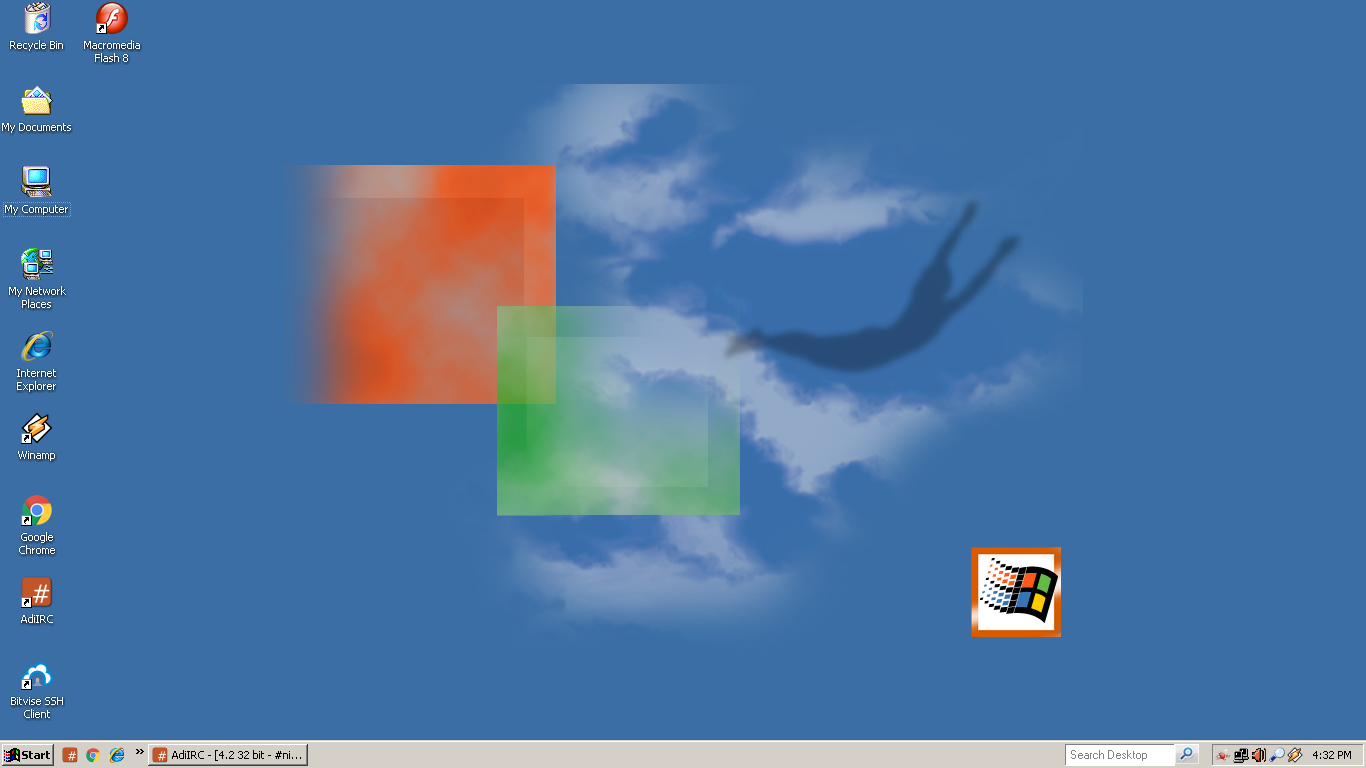
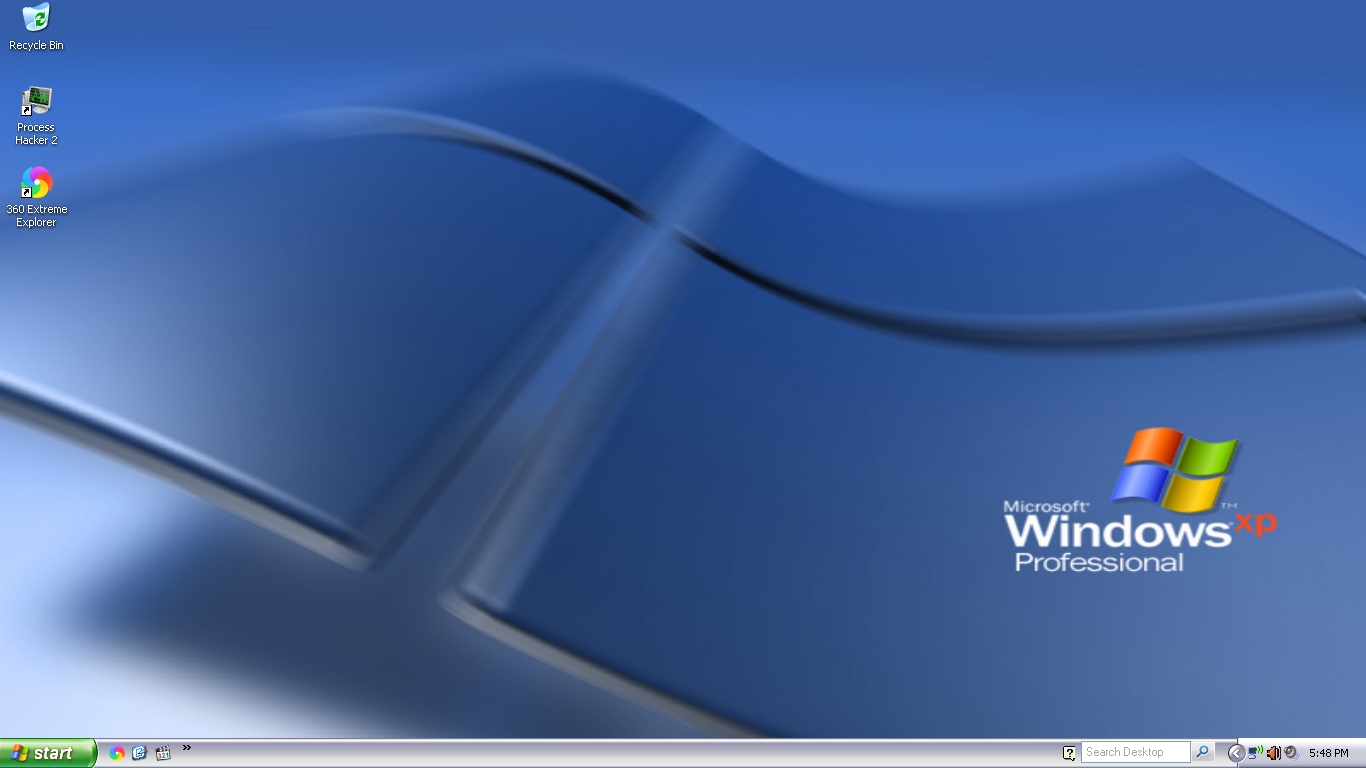
final touches

diff --git a/tmpl/about.html b/tmpl/about.html
@@ -12,14 +12,17 @@
 {%- block content -%}
 <img src=/static/title-art/about.gif alt="About me"><br><br>
 
-<table class=highmedtable>
+<table class=lowlargetable>
 
 	<tr>
 		<td>
 			<p>The usual essay</p>
 		</td>
 		<td>
-			<p>I am Anna/HIDEN. You might also (formerly) know me as HIDEN64 or epictaco/EpicTaco404. I'm a 15 year old, pansexual, furry, transgender woman that lives in the hell-hole that is the south-central USA. I'm a libertarian-socialist. I have diagnosed GAD and probably Tourettes; and I also likely have ADHD, OCD, and Autism.</p>
+			<p>I am Anna/HIDEN, the usual transfem, lib-soc, furry that also happens to be a massive computers + history + metal nerd. I live in the south-central US (I know, it sucks), and I'm 15.</p>
+			<p>I'm also diagnosed with GAD (and Toruettes as well I think), and I likely also have ADHD, Autism, and OCD.</p>
+			<p>As a side note, if you (used to) know someone named epictaco/EpicTaco404/some variant of that... well... that's me!</p>
+			<p>I'm taken as well, so don't be weird.</p>
 		</td>
 	</tr>
 	
@@ -28,7 +31,7 @@
 			<p>Interests</p>
 		</td>
 		<td>
-			<p>I'm interested in technology, rock/metal music, video and audio production, humor, data archival, retro/vintage stuff, and video games.</p>
+			<p>I'm interested in technology, rock/metal music, history (including alternate history), video and audio production, humor, data archival, retro/vintage stuff, and video games.</p>
 		</td>
 	</tr>
 	
@@ -63,4 +66,5 @@
 
 </table>
 
+<br>
 {%- endblock -%}

diff --git a/static/style/style.css b/static/style/style.css
@@ -44,7 +44,7 @@ table, tr, th, td {
 }
 
 table {
-	box-shadow: 0 0 2.5rem 0 rgba(0, 0, 0, .5); 
+	box-shadow: 0 0 1rem 0 rgba(0, 0, 0, .5); 
 	border-radius: 4px;
 	position: relative;
 	z-index: 1;
@@ -78,7 +78,7 @@ ul {
 }
 
 img {
-	filter: drop-shadow(5px 6.75px 5px #665e5ed8);
+	filter: drop-shadow(2px 2.75px 5px #665e5ed8);
 }
 
 code {
@@ -192,7 +192,8 @@ footer img:hover {
     background: inherit; 
     z-index: 1;
     margin-bottom: -10px;
-	box-shadow: 1px 0px rgba(0,0,0,0.24),0 17px 50px rgba(0,0,0,0.19);
+	box-shadow: 0.5px 0px rgba(0,0,0,0.24),0 17px 50px rgba(0,0,0,0.19);
+	outline: solid 2px rgb(128, 128, 128);
 }
 
 .sidebar a {
@@ -271,6 +272,7 @@ footer img:hover {
 	transition-duration: 0.5s;
 	width: 1050px;
 	height: 600px;
+	border-radius: 5px;
 }
 
 .img1:hover {
@@ -282,6 +284,7 @@ footer img:hover {
 	width: 1366px;
 	height: 768px;
 	margin: 3px 5px;
+	border-radius: 10px;
 }
 
 .img2 {
@@ -292,6 +295,7 @@ footer img:hover {
 	transition-duration: 0.5s;
 	height: 500px;
 	width: 750px;
+	border-radius: 5px;
 }
 
 .img2:hover {
@@ -303,6 +307,7 @@ footer img:hover {
 	height: 675px;
 	width: 1012.5px;
 	margin: 3px 5px;
+	border-radius: 10px;
 }
 
 .redtxt {

diff --git a/tmpl/services.vmlist.html b/tmpl/services.vmlist.html
@@ -11,17 +11,12 @@
 
 {%- block content -%}
 <img src=/static/title-art/vms.gif alt="Virtual Machines"><br><br>
-<p>Due to an internal internet-related issue, I am currently using another server for hosting core HIDNet services. I will return to my own server once those are resolved.</p>
 
-<p>Web (CT) - Debian 11 - It is running this website.</p>
-<p>Bots (VM) - Windows Server 2019 - It is running HBot, and the HIDNet Chat relay.</p>
-
-<!--
 <p>NET1-WEB - Debian 11 - It is running this website, <a href=https://duck.hiden.pw>mine and Duck's website</a>, <a href=https://mc.hiden.pw>MC 1.19's dynmap</a>, ie.best and norton.com for Kommunet</p>
 <p>NET2-MC - openSUSE Leap 15.4 - All Minecraft servers</p>
 <p>NET3-BOTS - Fedora 37 - All chatbots, just HIDNet Chat Relay and <a href=/projects/hbot>HBot</a> right now</p>
 <p>NET4-SRCSRV - Windows Server 2022 - All GoldSrc/Source servers</p>
 <p>NET5-COMS - Ubuntu 22.04 - All chat servers, none right now</p>
 <p>NET6-FILES - Winodws Server 2012 R2 - FTP and storage server (read perms are public, write perms are private and only given to friends/people I personally know)</p>
--->
+
 {%- endblock -%}

diff --git a/tmpl/computers.html b/tmpl/computers.html
@@ -3,11 +3,7 @@
 {%- block meta -%}
 	<meta name="description" content="The computers I've used over the years.">
 {%- endblock -%}
-
-{%- block sidebar -%}
-<a href=/computers>Placeholder</a>
-{%- endblock -%}
-
+	
 {%- block content -%}
 
 <img src=/static/title-art/computers.gif alt="My Computers">
@@ -118,14 +114,13 @@
 			<p>AMD Radeon HD 7340</p>
 		</td>
 		<td>
-			<p>Seagate ST500DM002-1BD142 HDD (SATA, 500GB, 7200RPM)</p>
+			<p>Seagate ST500DM002-1BD142 HDD (SATA, 500GB, 7200RPM, possibly dying)</p>
 		</td>
 		<td>
 			<p>2GB (DDR3-1333, single channel)</p>
 		</td>
 		<td>
 			<p>Windows XP Pro SP3+POSReady</p> 
-			<p>(skinned to look like Windows 2000)</p>
 		</td>
 		<td>
 			<p>1366x768 (60hz)</p>
@@ -134,7 +129,7 @@
 			<a href=/computers/desktops/hpp23>View here</a>
 		</td>
 		<td>
-			<p>This is my old shit/media center machine. Currently inactive.</p>
+			<p>This is my old shit/another random shit/media center machine.</p>
 		</td>
 	</tr>
 

diff --git a/tmpl/404.html b/tmpl/404.html
@@ -13,7 +13,7 @@
 
 <img src=/././static/title-art/404.gif alt="Not found!"><br><br>
 
-<h4>That page could not be found; it was either renamed, relocated, removed, or doesn't exist. Check if you made any typos in the URL.</h4>
+<h4>That page could not be found; it was either renamed, relocated, removed, or doesn't exist. Check if you fat-fingered something in the URL.</h4>
 
 <h4>If you believe this was caused in error, either due to a bug or something else, file an issue on GitHub, or contact me.</h4>
 

diff --git a/tmpl/computers.desktops.hpp23.html b/tmpl/computers.desktops.hpp23.html
@@ -9,8 +9,9 @@
 {%- endblock -%}
 
 {%- block content -%}
-<h3>Windows XP Pro SP3+POSReady (skinned to look like Windows 2000) - HP Pavilion 23</h3>
+<h3>Windows XP Pro SP3+POSReady - HP Pavilion 23</h3>
 
 <img class=img1 src=/static/desktops/hpp23/desktop.PNG alt="Windows XP desktop, HP Pavilion 23" title="Windows XP desktop, HP Pavilion 23">
 
+<br><br>
 {%- endblock -%}

diff --git a/tmpl/services.gamesrv.mc.latest.status.html b/tmpl/services.gamesrv.mc.latest.status.html
@@ -12,8 +12,8 @@
 {%- block pagestyle -%}
 
 .servericon {
-	height: 96px;
-	width: 96px;
+	height: 112px;
+	width: 112px;
 }
 
 .container {
@@ -36,7 +36,7 @@
 		{% endif %}
 		<div class=text-container>
 			<h1>{{ server_name }}</h1>
-			<p class=slghtmedtxt>{{ address }}</p>
+			<em><p class=slghtmedtxt>{{ address }}</p></em>
 		</div>
 	</div>
 	{% if player_list %}

diff --git a/tmpl/about.socials.html b/tmpl/about.socials.html
@@ -119,7 +119,7 @@
 			<p>Discord</p>
 		</td>
 		<td> 
-			<p>My Discord is <code>HIDEN#3556</code>. This is also one of the platforms I use the most.</p> 
+			<p>My Discord is <code>HIDEN#3556</code>. You'll see me on here the most.</p> 
 			<p>I own a Discord server as well. If you want to join, it can be found <a href=/discord>here</a>.</p>
 		</td>
 	</tr>

diff --git a/tmpl/discord.serverredir.html b/tmpl/discord.serverredir.html
@@ -11,7 +11,7 @@
 
 {%- block content -%}
 
-<p>You should be redirected to the server in around 5 seconds.</p>
+<p>You should be redirected to the server in ~5 seconds.</p>
 <p>If you weren't redirected (or are impatient), click <a href=https://discord.gg/7pcBPVs4vp>here</a>.</p>
 
 {%- endblock -%}

diff --git a/tmpl/about.faq.html b/tmpl/about.faq.html
@@ -43,7 +43,7 @@
 <br><br>
 
 <p>Q: <em>Now what's your least favorite OS?</em></p>
-<p>A: Windows ME, 1.01, and 2.03 in terms of Windows, Manjaro in terms of Linux.</p>
+<p>A: Windows ME, 1.01, 11, and 2.03 in terms of Windows, Manjaro in terms of Linux.</p>
 
 <br><br>
 

diff --git a/tmpl/downloads.software.html b/tmpl/downloads.software.html
@@ -145,7 +145,10 @@
 </table>
 
 {% if settings.DEV_MODE %}
+	<br>
 	<strong><p>NOTE:</strong> <em>Files here may be moved off the site and onto a seperate VM to save repository space.</em></p>
 {% endif %}
+
+<br><br>
 
 {%- endblock -%}

diff --git a/tmpl/downloads.cursors.html b/tmpl/downloads.cursors.html
@@ -85,6 +85,10 @@
 </table>
 
 {% if settings.DEV_MODE %}
+	<br>
 	<strong><p>NOTE:</strong> <em>Files here may be moved off the site and onto a seperate VM to save repository space.</em></p>
 {% endif %}
+
+<br><br>
+
 {%- endblock -%}
